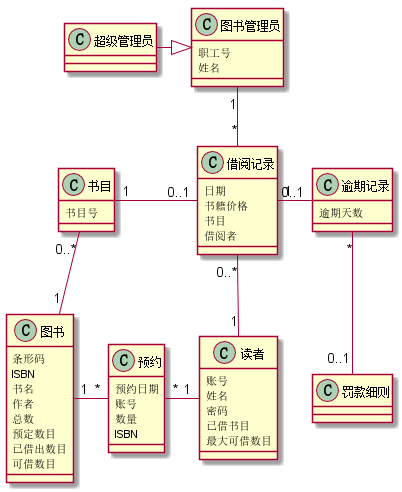
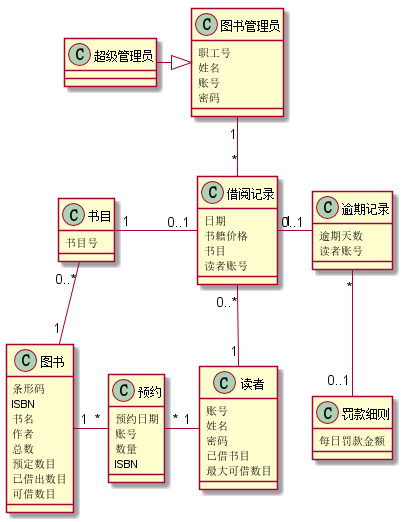
update

Changed region(s): [[0.0, 0.0, 1.0, 1.0], [0.7761, 0.7317, 1.0, 0.9146]]

diff --git a/test3/README.MD b/test3/README.MD
@@ -10,6 +10,7 @@ class 书目{
      书目号
 }
 class 图书{
+    条形码
     ISBN
     书名
     作者
@@ -35,16 +36,20 @@ class 借阅记录{
     日期
     书籍价格
     书目
-    借阅者
+    读者账号
 }
 class 逾期记录{
     逾期天数
+    读者账号
 }
 class 罚款细则{
+   每日罚款金额
 }
 class 图书管理员{
     职工号
     姓名
+    账号
+    密码
 }
 class 超级管理员{
 }
@@ -66,7 +71,7 @@ class 超级管理员{
 ### 1.3. 类图说明：
 该类图主要有图书类、预约类、读者类、书目类、借阅记录类、图书管理员类、逾期记录及罚款细则类，其中
 书目类与图书类、预约类与图书类、读者类与预约类、借阅记录与读者类存在多对一的关系,书目类与借阅记录类、逾期记录和借阅
-记录类存在一对一或者一对零的关系。超级管理员继承了图书管理员类，其他具体细节见上图
+记录类存在一对一或者一对零的关系。超级管理员继承了图书管理员类，每个类的属性及细节见上图
 ## 2. 图书管理系统的对象图
 ### 2.1 类图书的对象图
 #### 源码如下：
@@ -93,10 +98,10 @@ object 图书{
 @startuml
 
 object 借阅记录{
-         日期:2018/4/15
-         书籍价格:￥35
-         书目:信息系统分析与设计
-         借阅者:张三
+        日期:2018/4/15
+        书籍价格:￥35
+        书目:信息系统分析与设计
+        读者账号:201817162636
 }
 @enduml
 ```
@@ -145,9 +150,12 @@ object 预约{
 object 图书管理员{
          职工号：19383473
          姓名：李四
+         账号：1234
+         密码：***
 }
 
 @enduml
+
 ```
 #### 对象图如下：
 ![](图书管理员.png  "图书管理员" )
@@ -158,9 +166,23 @@ object 图书管理员{
 @startuml
 
 object 逾期记录{
-        逾期天数
+        逾期天数：4
+        读者账号：2019232792
 }
 @enduml
 ```
 #### 对象图如下：
 ![](逾期记录.png  "逾期记录" )
+
+### 2.6 类罚款细则的对象图
+#### 源码如下：
+```
+@startuml
+
+object 罚款细则{
+         每日罚款金额：￥0.5
+}
+@enduml
+```
+#### 对象图如下：
+![](罚款细则.png  "罚款细则" )
